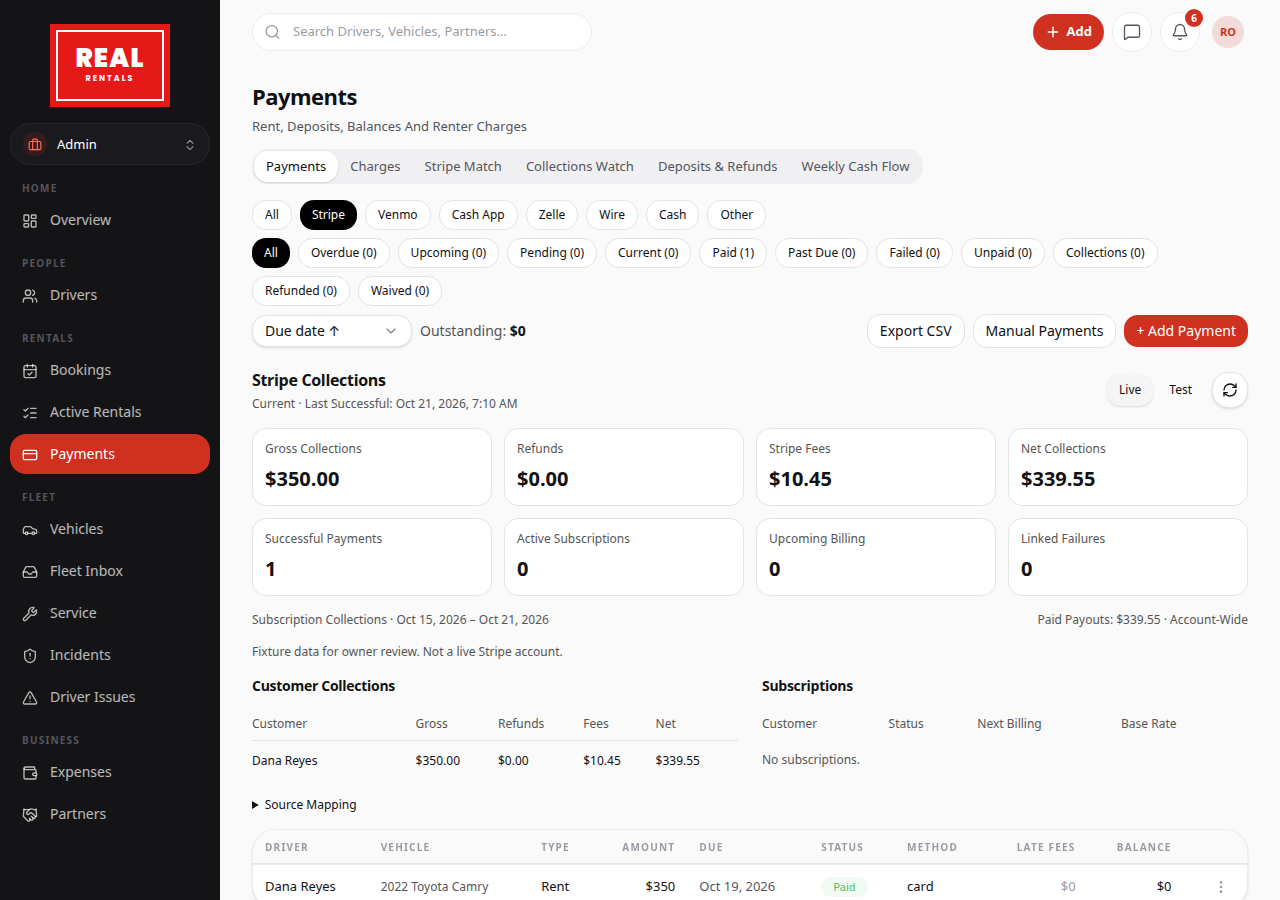
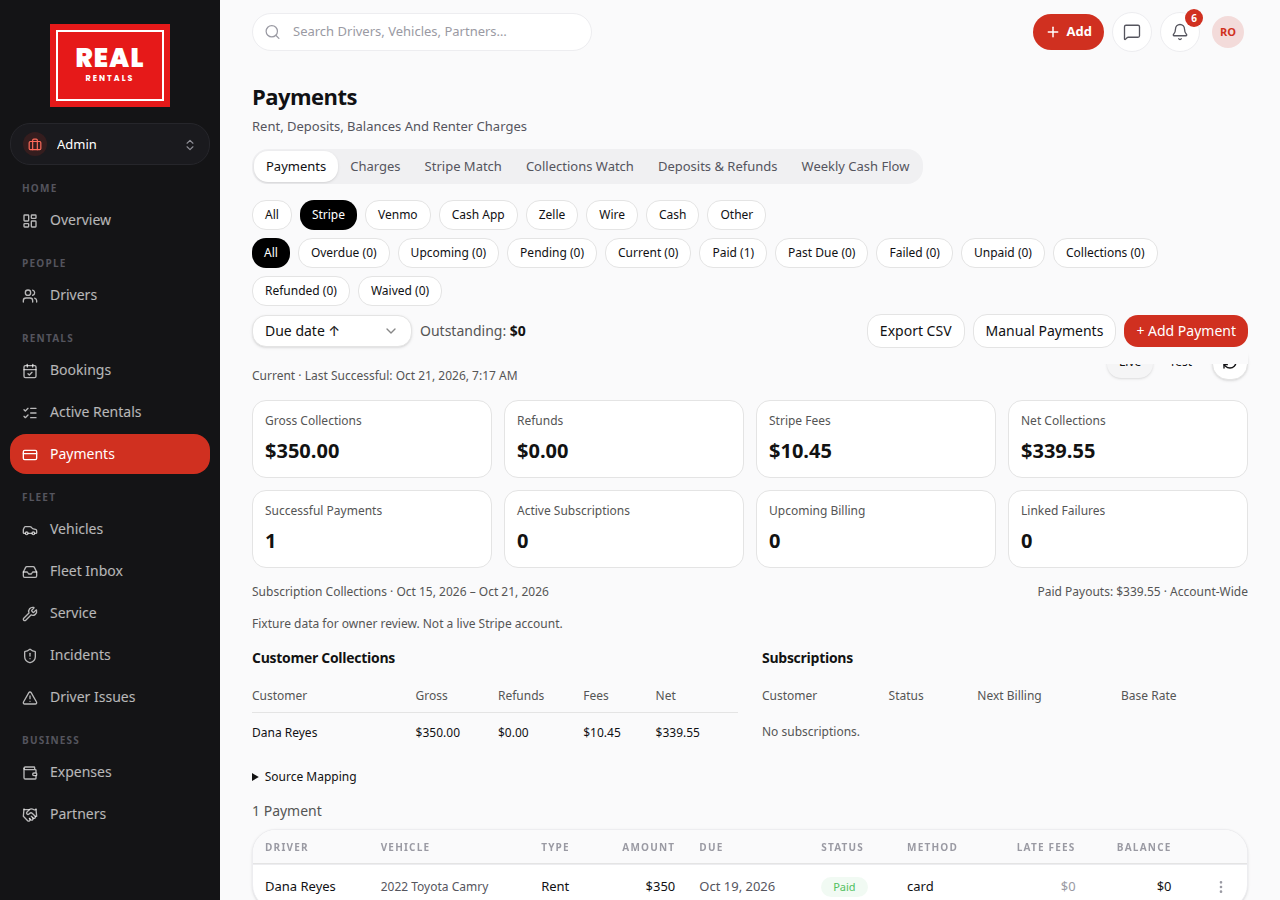
Keep the payments table and CSV on the same rows.
The table follows the summary range, the export writes that list, and both pages classify a deposit from every payment status. Marking a row paid stamps the Eastern day.

diff --git a/src/components/admin/PaymentsPanel.tsx b/src/components/admin/PaymentsPanel.tsx
@@ -25,7 +25,8 @@ import {
   type RefundLink,
   type SourceFilter,
 } from "@/lib/payment-reporting";
-import { rangeMessage } from "@/lib/eastern-day";
+import { easternToday, rangeMessage } from "@/lib/eastern-day";
+import { loadReportingPayments } from "@/lib/reporting-payments";
 import {
   Select,
   SelectContent,
@@ -124,9 +125,7 @@ export function PaymentsPanel({
       .then(({ data }) => { if (live) setVehicles((data as any) || []); });
     (async () => {
       const [paymentPage, refundPage, rentalPage] = await Promise.all([
-        readEveryPage<Payment>((from, to) =>
-          supabase.from("payments").select("*", { count: "exact" }).order("id", { ascending: true }).range(from, to),
-        ),
+        loadReportingPayments(),
         readEveryPage<RefundLink>((from, to) =>
           supabase.from("payment_refunds").select("stripe_charge_id,stripe_payment_intent_id,payment_ids", { count: "exact" }).order("id", { ascending: true }).range(from, to),
         ),
@@ -135,7 +134,7 @@ export function PaymentsPanel({
         ),
       ]);
       if (!live) return;
-      setPayments(paymentPage.rows);
+      setPayments(paymentPage.rows as Payment[]);
       setRefundLinks(refundPage.complete ? refundPage.rows : null);
       setDepositRentals(rentalPage.complete ? rentalPage.rows : null);
       setReadsComplete(paymentPage.complete && refundPage.complete && rentalPage.complete);
@@ -175,6 +174,7 @@ export function PaymentsPanel({
   }
 
   const sourced = source === "all" ? payments : payments.filter((p) => classifyPaymentSource(p) === source);
+  const inRangeRows = sourced.filter((p) => rowInReportRange(p, range));
   const loadCollections = useServerFn(getStripeCollections);
   const stripeQuery = useQuery(stripeCollectionsQuery(loadCollections, "live", range.from, range.to, canSeeCollections && (source === "all" || source === "stripe")));
   const rangeProblem = rangeMessage(range);
@@ -217,10 +217,10 @@ export function PaymentsPanel({
 
   const filtered = (
     statusFilter === "all"
-      ? sourced
+      ? inRangeRows
       : statusFilter === "overdue"
-        ? sourced.filter((p) => OVERDUE_SET.has(p.status as string))
-        : sourced.filter((p) => p.status === statusFilter)
+        ? inRangeRows.filter((p) => OVERDUE_SET.has(p.status as string))
+        : inRangeRows.filter((p) => p.status === statusFilter)
   )
     .slice()
     .sort((a, b) => {
@@ -239,7 +239,7 @@ export function PaymentsPanel({
 
   function downloadPaymentsCsv() {
     if (rangeMessage(range)) return;
-    const lines = filtered.filter((p) => rowInReportRange(p, range)).map((p) => {
+    const lines = filtered.map((p) => {
       const d = p.driver_id ? driverMap[p.driver_id] : null;
       const v = p.vehicle_id ? vehicleMap[p.vehicle_id] : null;
       const lateFees = Number(p.late_fees || 0);
@@ -260,8 +260,12 @@ export function PaymentsPanel({
     const link = document.createElement("a");
     link.href = url;
     link.download = paymentsExportFilename(source, range);
+    document.body.appendChild(link);
     link.click();
-    URL.revokeObjectURL(url);
+    window.setTimeout(() => {
+      link.remove();
+      URL.revokeObjectURL(url);
+    }, 1000);
   }
 
   return (
@@ -291,8 +295,8 @@ export function PaymentsPanel({
               {s !== "all" &&
                 `(${
                   s === "overdue"
-                    ? sourced.filter((p) => OVERDUE_SET.has(p.status as string)).length
-                    : sourced.filter((p) => p.status === s).length
+                    ? inRangeRows.filter((p) => OVERDUE_SET.has(p.status as string)).length
+                    : inRangeRows.filter((p) => p.status === s).length
                 })`}
             </button>
           ))}
@@ -391,6 +395,9 @@ export function PaymentsPanel({
         </ul>
       </details>
       {showManual && <ManualPaymentsWorkspace payments={payments} driverMap={driverMap} onClose={() => setShowManual(false)} />}
+      <p className="mb-2 text-sm text-muted-foreground">
+        {filtered.length.toLocaleString()} {filtered.length === 1 ? "Payment" : "Payments"}
+      </p>
       <AdminTableScroll className="rounded-2xl border border-[#EDEDF0] bg-white shadow-sm">
         <table className="w-full text-sm">
           <thead className="bg-[#FAFAFB] text-[10px] font-semibold uppercase tracking-[0.12em] text-[#9A9AA3]">
@@ -435,7 +442,7 @@ export function PaymentsPanel({
                       onValueChange={(s) =>
                         update(p.id, {
                           status: s,
-                          paid_date: s === "paid" ? new Date().toISOString().slice(0, 10) : null,
+                          paid_date: s === "paid" ? easternToday() : null,
                         })
                       }
                     >
@@ -475,7 +482,7 @@ export function PaymentsPanel({
                           onClick={() =>
                             update(p.id, {
                               status: "paid",
-                              paid_date: new Date().toISOString().slice(0, 10),
+                              paid_date: easternToday(),
                             })
                           }
                         >
@@ -500,8 +507,8 @@ export function PaymentsPanel({
               <tr>
                 <td colSpan={10} className="p-4">
                   <EmptyState
-                    title="No Payments Yet"
-                    hint="Payments appear here once a driver is charged or a rental invoice is created."
+                    title={payments.length > 0 ? "No Payments in This Range" : "No Payments Yet"}
+                    hint={payments.length > 0 ? "Change the date range or the status filter to see other rows." : "Payments appear here once a driver is charged or a rental invoice is created."}
                   />
                 </td>
               </tr>

diff --git a/src/components/admin/OverviewPanel.tsx b/src/components/admin/OverviewPanel.tsx
@@ -30,6 +30,7 @@ import {
 import { SectionCard, MicroLabel, StatusPill, ReadinessStatePill } from "./ui";
 import { compareReadiness, selectHotProspects, type ReadinessResult } from "@/lib/readiness";
 import { isRevenuePayment, readEveryPage, revenuePaymentsSearch, summarizePayments, type RefundLink, type ReportingPayment } from "@/lib/payment-reporting";
+import { loadReportingPayments } from "@/lib/reporting-payments";
 import { summarizeFleet, type FleetSummary } from "@/lib/fleet-summary";
 import { getOverviewApplicants } from "@/lib/admin-overview.functions";
 import {
@@ -276,14 +277,7 @@ function OverviewContent({ canSeeCollections = false }: { canSeeCollections?: bo
     let live = true;
     setRevenueLoading(true);
     (async () => {
-      const payments = await readEveryPage<ReportingPayment>((from, to) =>
-        supabase
-          .from("payments")
-          .select("id,amount,balance_due,refunded_amount,status,type,paid_date,refunded_at,payment_method,stripe_payment_intent_id,stripe_invoice_id,stripe_subscription_id,rental_id,notes", { count: "exact" })
-          .in("status", ["paid", "refunded"])
-          .order("id", { ascending: true })
-          .range(from, to),
-      );
+      const payments = await loadReportingPayments();
       const links = await readEveryPage<RefundLink>((from, to) =>
         supabase
           .from("payment_refunds")
@@ -293,7 +287,7 @@ function OverviewContent({ canSeeCollections = false }: { canSeeCollections?: bo
       );
       if (!live) return;
       setLedger({
-        payments: payments.rows,
+        payments: payments.rows as ReportingPayment[],
         refundLinks: links.complete ? links.rows : null,
         complete: payments.complete && links.complete,
       });

diff --git a/src/lib/reporting-payments.ts b/src/lib/reporting-payments.ts
@@ -1,0 +1,19 @@
+import { supabase } from "@/integrations/supabase/client";
+import { readEveryPage } from "@/lib/paged-read";
+
+/**
+ * Every payments row, any status.
+ *
+ * Overview and Payments both decide whether a Stripe charge is a deposit from
+ * this set. A paid/refunded filter would hide a deposit Stripe already
+ * captured while the row is still pending, and the two pages would disagree.
+ */
+export function loadReportingPayments() {
+  return readEveryPage((from, to) =>
+    supabase
+      .from("payments")
+      .select("*", { count: "exact" })
+      .order("id", { ascending: true })
+      .range(from, to),
+  );
+}
